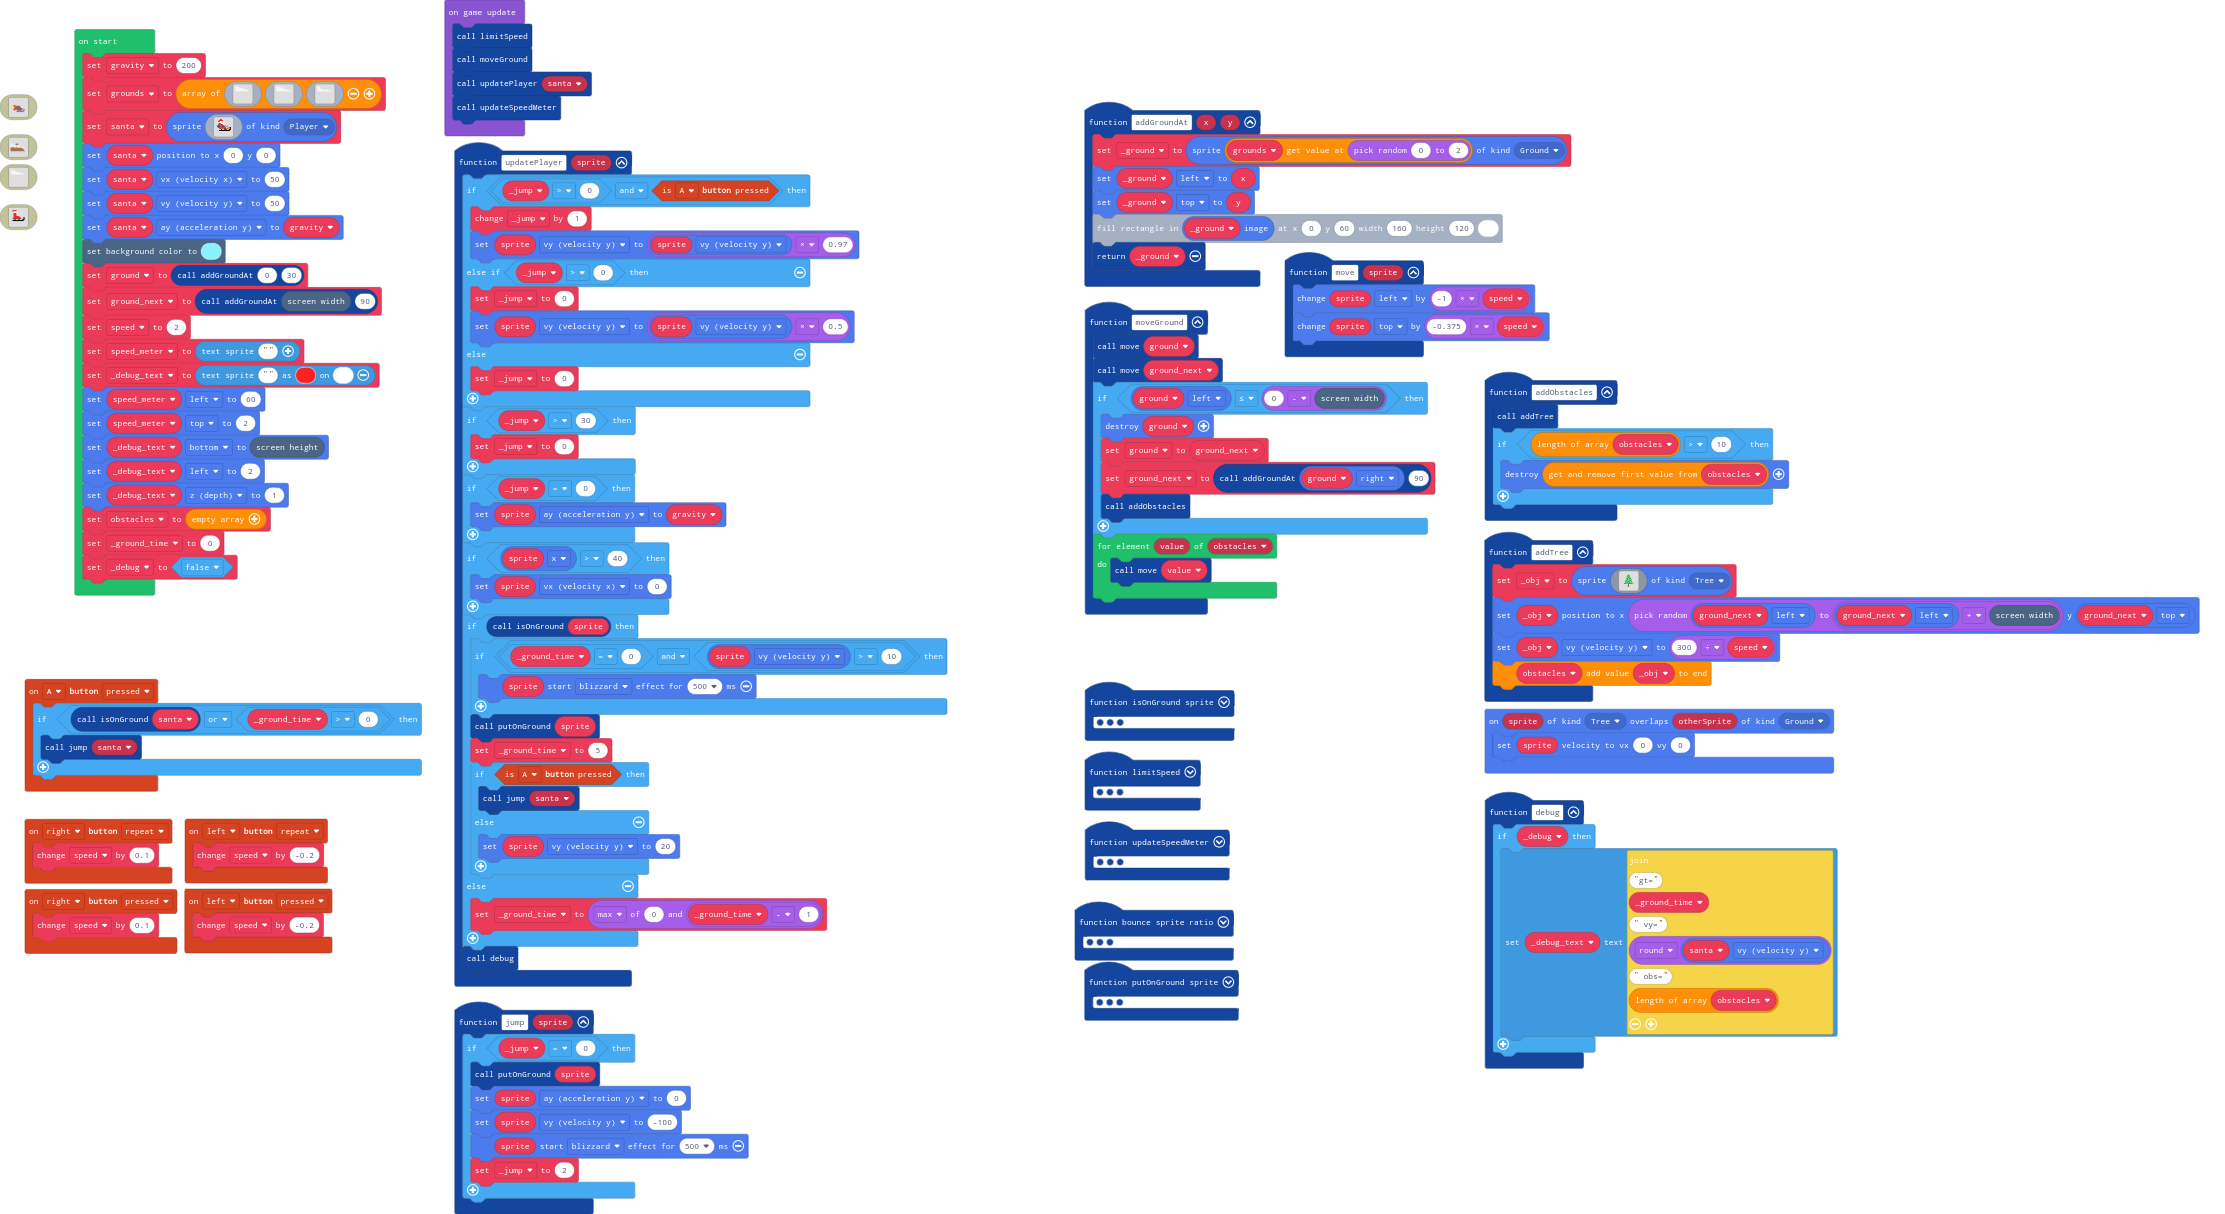
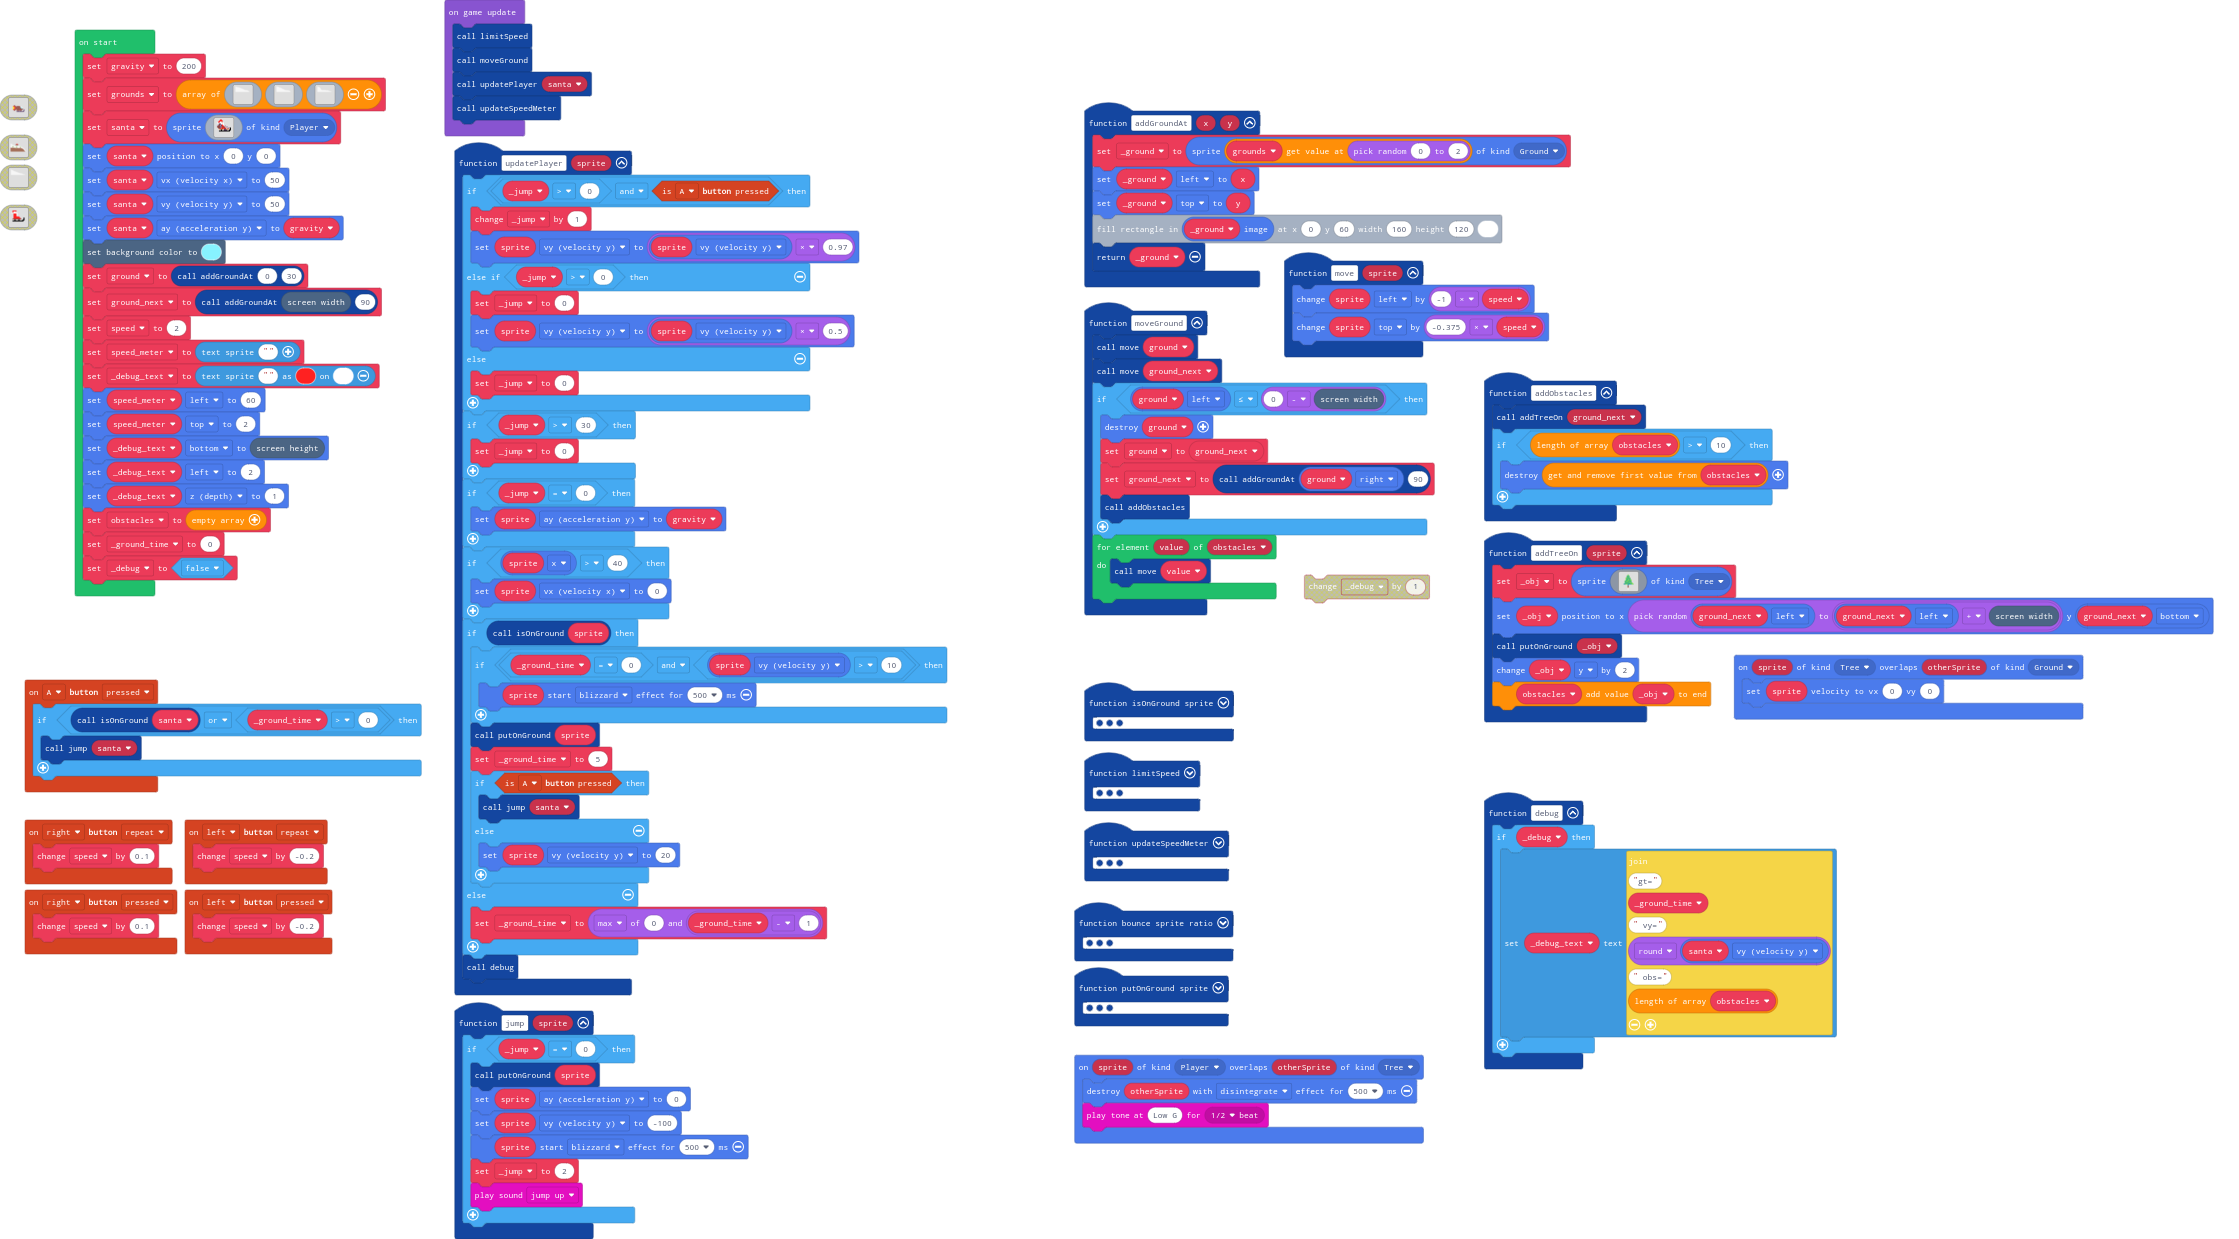
sounds!

Changed region(s): [[0.0, 0.0, 0.4342, 1.0], [0.4652, 0.0914, 0.9924, 0.9448]]

diff --git a/main.ts b/main.ts
@@ -58,6 +58,30 @@ function limitSpeed () {
 controller.right.onEvent(ControllerButtonEvent.Repeated, function () {
     speed += 0.1
 })
+function addTreeOn (sprite: Sprite) {
+    _obj = sprites.create(img`
+        . . . . . . . . . . . . . . . . 
+        . . . . . . . 7 . . . . . . . . 
+        . . . . . . 7 6 7 . . . . . . . 
+        . . . . . . 6 7 6 . . . . . . . 
+        . . . . . 7 7 6 7 7 . . . . . . 
+        . . . . . 7 6 7 6 6 . . . . . . 
+        . . . . . 7 6 7 7 7 7 . . . . . 
+        . . . . 7 6 7 7 6 6 7 . . . . . 
+        . . . . 6 7 7 6 7 7 6 . . . . . 
+        . . . . 7 6 6 7 6 7 7 7 . . . . 
+        . . . 6 6 7 7 6 6 6 6 7 7 . . . 
+        . . . . . . . 6 . . . . . . . . 
+        . . . . . . . e . . . . . . . . 
+        . . . . . . . e . . . . . . . . 
+        . . . . . . . d . . . . . . . . 
+        . . . . . . . 1 . . . . . . . . 
+        `, SpriteKind.Tree)
+    _obj.setPosition(randint(ground_next.left, ground_next.left + scene.screenWidth()), ground_next.bottom)
+    putOnGround(_obj)
+    _obj.y += 2
+    obstacles.push(_obj)
+}
 controller.left.onEvent(ControllerButtonEvent.Pressed, function () {
     speed += -0.2
 })
@@ -98,30 +122,8 @@ function jump (sprite: Sprite) {
         sprite.vy = -100
         sprite.startEffect(effects.blizzard, 500)
         _jump = 2
+        music.jumpUp.play()
     }
-}
-function addTree () {
-    _obj = sprites.create(img`
-        . . . . . . . . . . . . . . . . 
-        . . . . . . . 7 . . . . . . . . 
-        . . . . . . 7 6 7 . . . . . . . 
-        . . . . . . 6 7 6 . . . . . . . 
-        . . . . . 7 7 6 7 7 . . . . . . 
-        . . . . . 7 6 7 6 6 . . . . . . 
-        . . . . . 7 6 7 7 7 7 . . . . . 
-        . . . . 7 6 7 7 6 6 7 . . . . . 
-        . . . . 6 7 7 6 7 7 6 . . . . . 
-        . . . . 7 6 6 7 6 7 7 7 . . . . 
-        . . . 6 6 7 7 6 6 6 6 7 7 . . . 
-        . . . . . . . 6 . . . . . . . . 
-        . . . . . . . e . . . . . . . . 
-        . . . . . . . e . . . . . . . . 
-        . . . . . . . d . . . . . . . . 
-        . . . . . . . 1 . . . . . . . . 
-        `, SpriteKind.Tree)
-    _obj.setPosition(randint(ground_next.left, ground_next.left + scene.screenWidth()), ground_next.top)
-    _obj.vy = 300 / speed
-    obstacles.push(_obj)
 }
 function putOnGround (sprite: Sprite) {
     while (isOnGround(sprite)) {
@@ -132,8 +134,12 @@ function move (sprite: Sprite) {
     sprite.left += -1 * speed
     sprite.top += -0.375 * speed
 }
+sprites.onOverlap(SpriteKind.Player, SpriteKind.Tree, function (sprite, otherSprite) {
+    otherSprite.destroy(effects.disintegrate, 500)
+    music.playTone(196, music.beat(BeatFraction.Half))
+})
 function addObstacles () {
-    addTree()
+    addTreeOn(ground_next)
     if (obstacles.length > 10) {
         obstacles.shift().destroy()
     }
